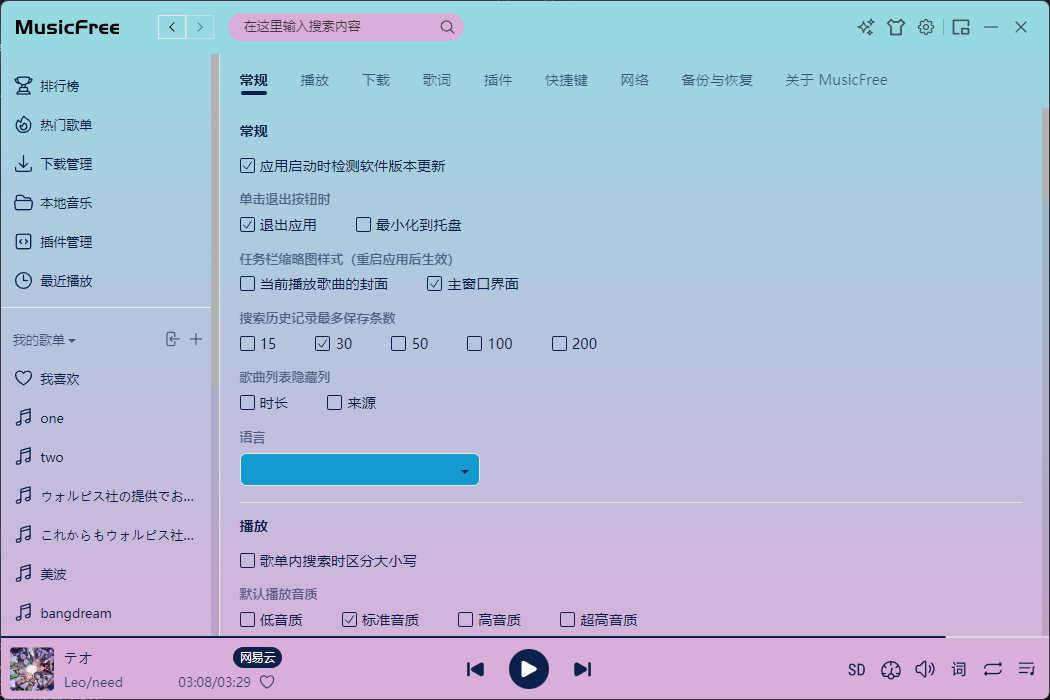
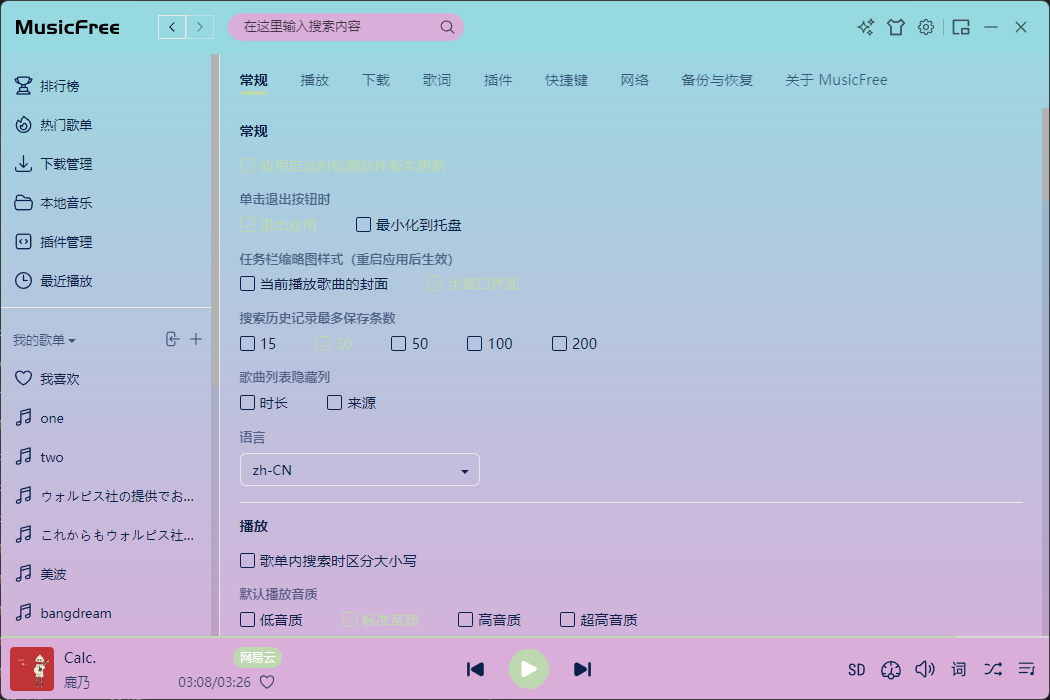
fix issue#2

diff --git a/tubeLightText/index.css b/tubeLightText/index.css
@@ -6,7 +6,8 @@
     --textColor: #fff !important; 
     --maskColor: rgba(51, 51, 51, 0.2) !important; 
     --shadowColor: rgba(0, 0, 0, 0.2) !important;
-    --backgroundColor: #07252d !important; 
+    --backgroundColor: #07252d !important;
+    --placeholderColor: rgba(0,0,0,0.2) !important; 
     }
     
     .header-container, 

diff --git a/gradient/index.css b/gradient/index.css
@@ -22,7 +22,6 @@
 
 /*音乐详情页背景*/
 .music-detail-background {
-  background-image: linear-gradient(0deg, #D9AFD9 0%, #97D9E1 100%) !important;
   mask-image: none !important;
   -webkit-mask-image: none !important;
 }

diff --git a/note.md b/note.md
@@ -75,3 +75,6 @@ mask-image: none !important;
     }
 }
 ```
+## 关于preview
+
+说起来每次更改css都会涉及ui的改变，那每一次都修改preview.png实在是麻烦，不如以后把背景改成单纯网页或者背景图片的截图，这样就不用反复修改了
